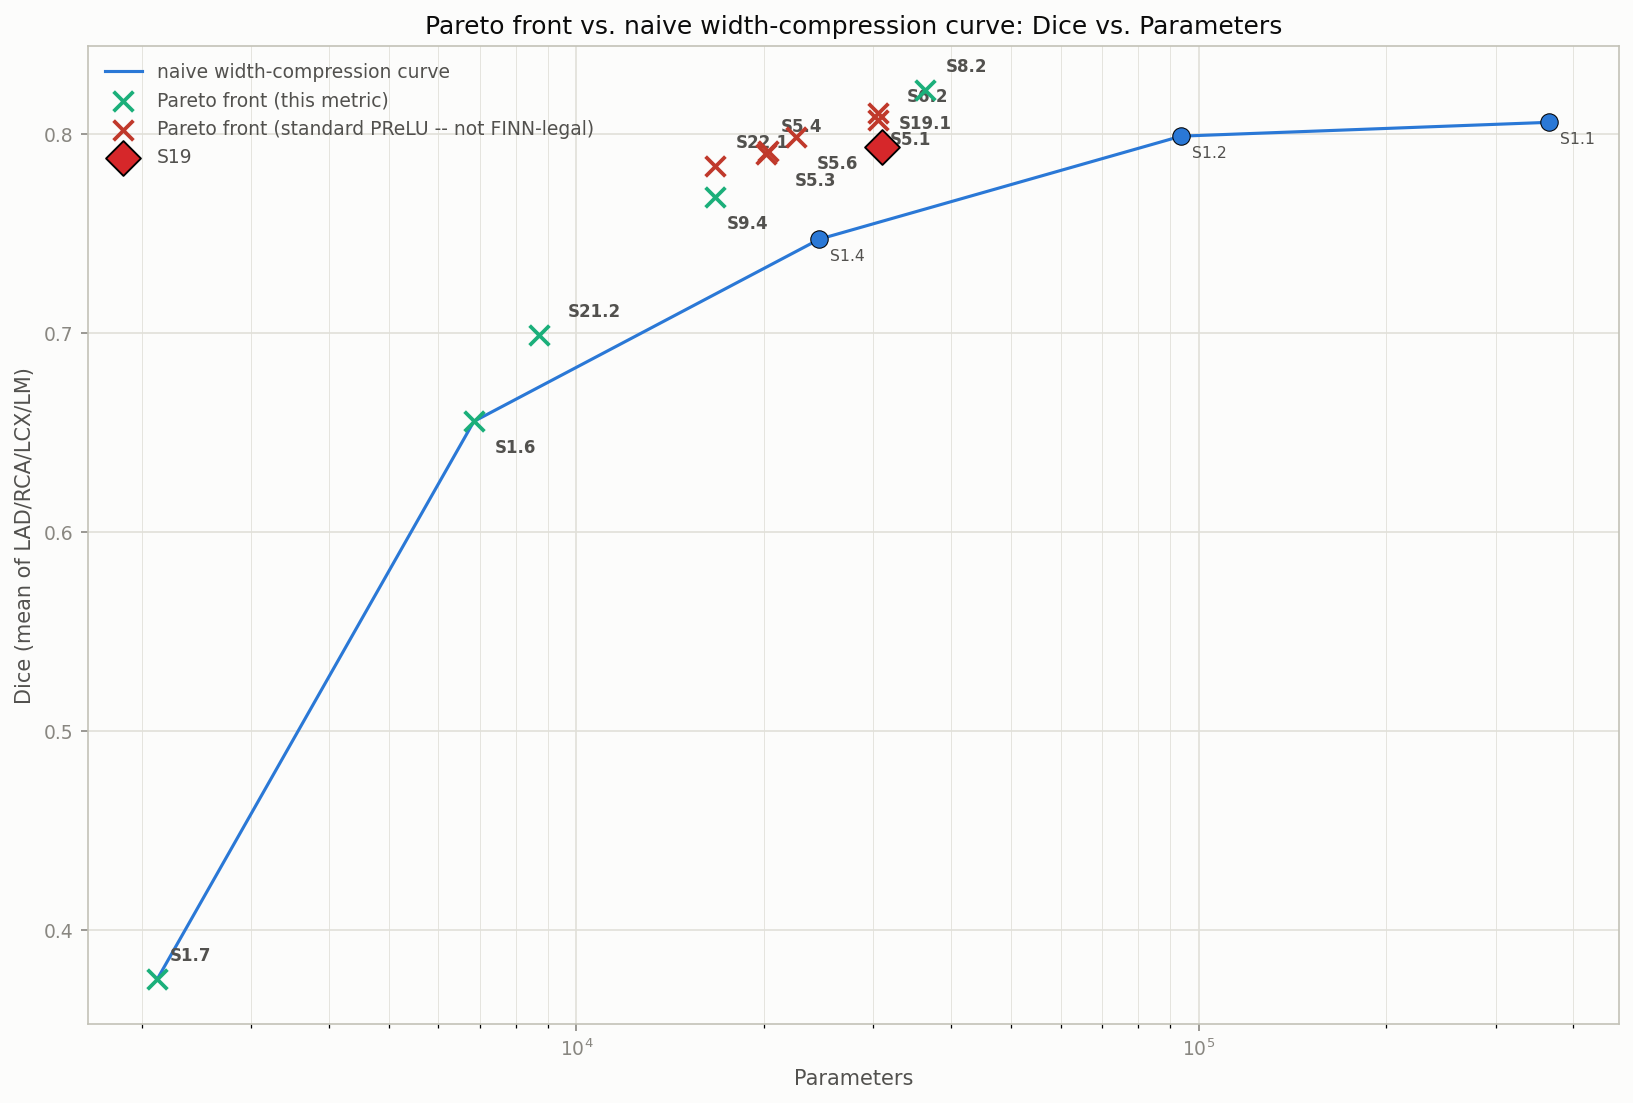
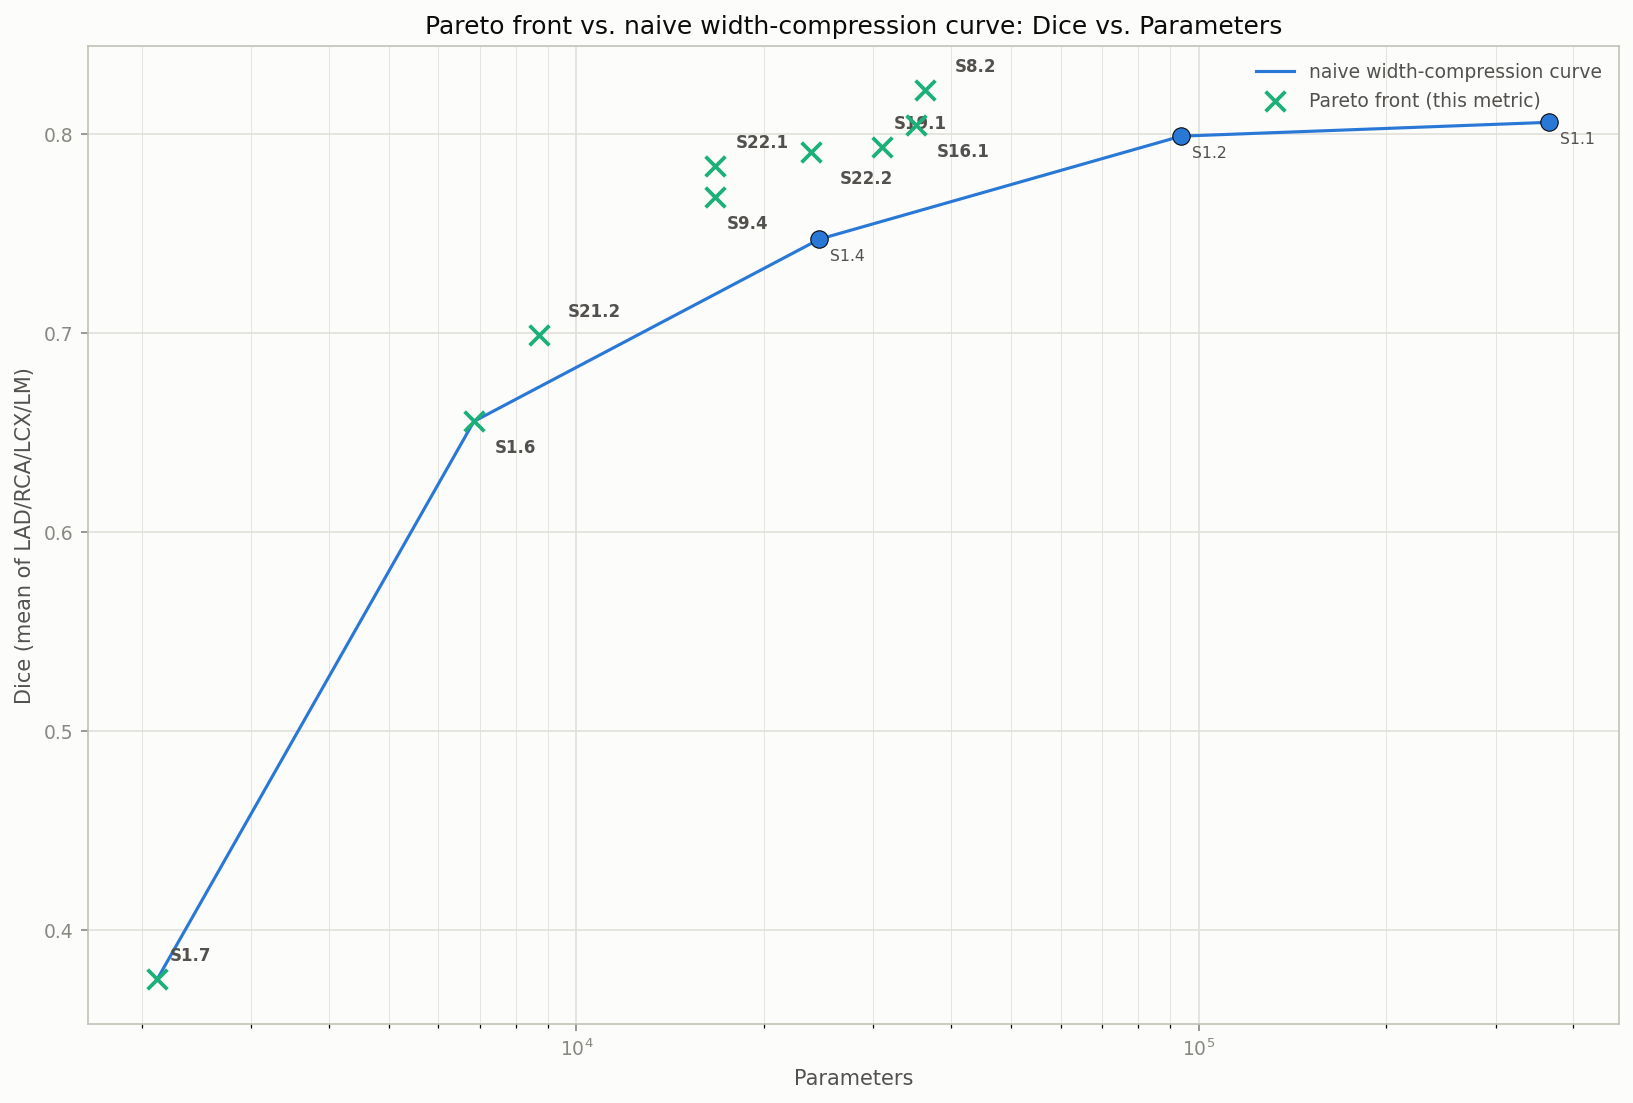
Final plots: restrict Pareto front to FINN-legal activations only (ReLU + nonneg_block)
pareto_eligible now also drops every prelu_standard (per-channel PReLU)
config, not just recolors it -- those points' dice was achieved with an
activation FINN can't deploy, so they don't belong on a "what's actually
achievable" frontier at all. Removed the now-dead front_prelu/front_legal
split and PRELU_STANDARD_COLOR (single green "x" again).

Fixed a real bug surfaced while verifying this: NONNEG_BLOCK_CONFIGS never
got the 3 stage-22 configs added when that stage was created, so S22.1/
S22.2/S22.3 were being misclassified as standard PReLU and wrongly excluded
by the new filter. Added them -- S22.1 and S22.2 now correctly appear on
the params front (S22.2 also on macs), which is the whole point of having
run stage 22 in the first place.

diff --git a/compression/plot_final_width_comparison.py b/compression/plot_final_width_comparison.py
@@ -35,12 +35,14 @@ considered (excludes pruning-grid rows, which live in results_pruning.csv
 entirely, and quantization/experiment rows, which mix in a different axis
 -- bit-width -- not directly comparable to an FP32 architecture sweep).
 
-Front X markers are colored by activation legality: green for plain ReLU
-or prelu_variant="nonneg_block" (NONNEG_BLOCK_CONFIGS -- one learnable
+Only FINN-legal activations are considered at all: plain ReLU or
+prelu_variant="nonneg_block" (NONNEG_BLOCK_CONFIGS -- one learnable
 negative slope per bottleneck BLOCK, foldable into that block's FINN
-thresholds at ~zero extra cost), red for standard per-channel PReLU (one
-learnable slope per CHANNEL -- not something FINN supports cheaply, so a
-red point's dice is an upper bound, not something directly deployable).
+thresholds at ~zero extra cost). Standard per-channel PReLU configs (one
+learnable slope per CHANNEL -- not something FINN supports cheaply) are
+excluded from pareto_eligible entirely, not just recolored -- their dice is
+an upper bound achieved with an activation that can't actually be deployed,
+so they don't belong on a "what's achievable" frontier.
 
 Usage:
     python compression/plot_final_width_comparison.py
@@ -97,7 +99,7 @@ UNFAITHFUL_TRAINING_CONFIGS = {
 # with use_prelu=1 uses the DEFAULT "standard" variant -- one learnable
 # slope PER CHANNEL, which is not something FINN supports as a cheap
 # per-channel op. Confirmed by grepping every stage_*.job for
-# ENET_PRELU_VARIANT="nonneg_block" -- only these six configs set it.
+# ENET_PRELU_VARIANT="nonneg_block".
 NONNEG_BLOCK_CONFIGS = {
     "nnUNetTrainerENet_13_separable_dense_nonneg_block_warmstart",
     "nnUNetTrainerENet_13_separable_dense_nonneg_block_leaky_frozen",
@@ -107,8 +109,10 @@ NONNEG_BLOCK_CONFIGS = {
     "nnUNetTrainerENet_21_1_u2",
     "nnUNetTrainerENet_21_2_u8",
     "nnUNetTrainerENet_21_3_original",
+    "nnUNetTrainerENet_22_1_dsc_projected_nonneg_block",
+    "nnUNetTrainerENet_22_2_dsc_projected_reginterleaved_nonneg_block",
+    "nnUNetTrainerENet_22_3_dsc_projected_reginterleaved_double_mid_nonneg_block",
 }
-PRELU_STANDARD_COLOR = "#c0392b"
 
 
 def parse_args() -> argparse.Namespace:
@@ -182,20 +186,10 @@ def _plot_metric(named: pd.DataFrame, naive: pd.DataFrame, pareto_eligible: pd.D
     diamond_configs = {c: v for c, v in HIGHLIGHTED_CONFIGS.items() if c not in front_configs}
     front_other = front[~front["config_name"].isin(diamond_configs)] if not front.empty else front
     if not front_other.empty:
-        front_prelu = front_other[front_other["prelu_standard"]]
-        front_legal = front_other[~front_other["prelu_standard"]]
         # Lowercase "x" -- matplotlib's thin, unfilled line-cross marker
         # (like a text "X" glyph), not the bold uppercase "X" filled marker.
-        if not front_legal.empty:
-            ax.scatter(front_legal[x_col], front_legal["dice"], color=PARETO_COLOR, s=90, zorder=5,
-                       marker="x", linewidths=1.8, label="Pareto front (this metric)")
-        if not front_prelu.empty:
-            # Red -- standard per-channel PReLU, not FINN-legal (see
-            # NONNEG_BLOCK_CONFIGS' own comment). Same thin "x" marker,
-            # just a different color, so it reads as "still a front point"
-            # but flagged as not directly deployable as trained.
-            ax.scatter(front_prelu[x_col], front_prelu["dice"], color=PRELU_STANDARD_COLOR, s=90, zorder=5,
-                       marker="x", linewidths=1.8, label="Pareto front (standard PReLU -- not FINN-legal)")
+        ax.scatter(front_other[x_col], front_other["dice"], color=PARETO_COLOR, s=90, zorder=5,
+                   marker="x", linewidths=1.8, label="Pareto front (this metric)")
         # Alternate the label offset up/down (and vary horizontal reach a
         # little) so densely-packed Pareto points -- common near the
         # "knee" of the curve where several architectures land close
@@ -254,7 +248,14 @@ def main() -> int:
         print(f"No {NAIVE_STAGE} rows found.")
         return 1
 
-    pareto_eligible = named[~named["config_name"].isin(UNFAITHFUL_TRAINING_CONFIGS)]
+    # Pareto figures only ever show FINN-legal activations: plain ReLU or
+    # nonneg_block. Standard per-channel PReLU points are excluded entirely
+    # here (not just recolored) -- their dice is an upper bound achieved
+    # with an activation FINN can't deploy, so they don't belong on a
+    # "what's actually achievable" cost/accuracy frontier at all.
+    pareto_eligible = named[
+        ~named["config_name"].isin(UNFAITHFUL_TRAINING_CONFIGS) & ~named["prelu_standard"]
+    ]
 
     args.out_dir.mkdir(parents=True, exist_ok=True)
     _plot_metric(named, naive, pareto_eligible, "params", "Parameters",
